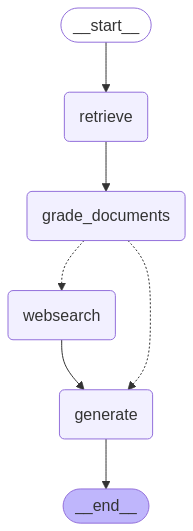
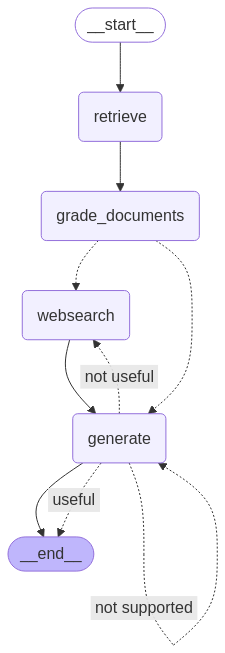
self RAG

diff --git a/graph/graph.py b/graph/graph.py
@@ -2,6 +2,8 @@ from dotenv import load_dotenv
 
 from langgraph.graph import END, StateGraph
 
+from graph.chains.answer_grader import answer_grader
+from graph.chains.hallucination_grader import hallucination_grader
 from graph.consts import RETRIEVE, GRADE_DOCUMENTS, GENERATE, WEBSEARCH
 from graph.nodes import generate, grade_documents, retrieve, web_search
 from graph.state import GraphState
@@ -21,6 +23,31 @@ def decide_to_generate(state):
         print("---DECISION: GENERATE---")
         return GENERATE
 
+
+def grade_generation_grounded_in_documents_and_question(state: GraphState) -> str:
+    print("---CHECK HALLUCINATIONS---")
+    question = state["question"]
+    documents = state["documents"]
+    generation = state["generation"]
+
+    score = hallucination_grader.invoke(
+        {"documents": documents, "generation": generation}
+    )
+
+    if hallucination_grade := score.binary_score:
+        print("---DECISION: GENERATION IS GROUNDED IN DOCUMENTS---")
+        print("---GRADE GENERATION vs QUESTION---")
+        score = answer_grader.invoke({"question": question, "generation": generation})
+        if answer_grade := score.binary_score:
+            print("---DECISION: GENERATION ADDRESSES QUESTION---")
+            return "useful"
+        else:
+            print("---DECISION: GENERATION DOES NOT ADDRESS QUESTION---")
+            return "not useful"
+    else:
+        print("---DECISION: GENERATION IS NOT GROUNDED IN DOCUMENTS, RE-TRY---")
+        return "not supported"
+
 workflow = StateGraph(GraphState)
 
 workflow.add_node(RETRIEVE, retrieve)
@@ -38,6 +65,17 @@ workflow.add_conditional_edges(
         GENERATE: GENERATE,
     },
 )
+
+workflow.add_conditional_edges(
+     GENERATE,
+     grade_generation_grounded_in_documents_and_question,
+     {
+         "not supported": GENERATE,
+         "useful": END,
+         "not useful": WEBSEARCH,
+     },
+ )
+
 workflow.add_edge(WEBSEARCH, GENERATE)
 workflow.add_edge(GENERATE, END)
 

diff --git a/graph/chains/hallucination_grader.py b/graph/chains/hallucination_grader.py
@@ -1,0 +1,40 @@
+import os
+
+from langchain_core.prompts import ChatPromptTemplate
+from langchain_core.pydantic_v1 import BaseModel, Field
+from langchain_core.runnables import RunnableSequence
+from langchain_openai import AzureChatOpenAI
+
+from dotenv import load_dotenv
+
+load_dotenv()
+
+llm = AzureChatOpenAI(
+        api_key=os.getenv("AZURE_OPENAI_API_KEY"),
+        azure_endpoint=os.getenv("AZURE_OPENAI_ENDPOINT"),
+        azure_deployment=os.getenv("AZURE_OPENAI_DEPLOYMENT_NAME"),
+        api_version=os.getenv("AZURE_OPENAI_API_VERSION"),
+        temperature=0,
+        verbose=True,
+)
+
+class GradeHallucinations(BaseModel):
+    """Binary score for hallucination present in generation answer."""
+
+    binary_score: bool = Field(
+        description="Answer is grounded in the facts, 'yes' or 'no'"
+    )
+
+structured_llm_grader = llm.with_structured_output(GradeHallucinations)
+
+system = """You are a grader assessing whether an LLM generation is grounded in / supported by a set of retrieved facts. \n 
+      Give a binary score 'yes' or 'no'. 'Yes' means that the answer is grounded in / supported by the set of facts."""
+
+hallucination_prompt = ChatPromptTemplate.from_messages(
+    [
+        ("system", system),
+        ("human", "Set of facts: \n\n {documents} \n\n LLM generation: {generation}"),
+    ]
+)
+
+hallucination_grader: RunnableSequence = hallucination_prompt | structured_llm_grader

diff --git a/graph/chains/answer_grader.py b/graph/chains/answer_grader.py
@@ -1,0 +1,39 @@
+import os
+
+from langchain_core.prompts import ChatPromptTemplate
+from langchain_core.pydantic_v1 import BaseModel, Field
+from langchain_core.runnables import RunnableSequence
+from langchain_openai import AzureChatOpenAI
+
+from dotenv import load_dotenv
+
+load_dotenv()
+
+
+class GradeAnswer(BaseModel):
+    binary_score: bool = Field(
+        description="Answer addresses the question, 'yes' or 'no'"
+    )
+
+
+llm = AzureChatOpenAI(
+        api_key=os.getenv("AZURE_OPENAI_API_KEY"),
+        azure_endpoint=os.getenv("AZURE_OPENAI_ENDPOINT"),
+        azure_deployment=os.getenv("AZURE_OPENAI_DEPLOYMENT_NAME"),
+        api_version=os.getenv("AZURE_OPENAI_API_VERSION"),
+        temperature=0,
+        verbose=True,
+)
+structured_llm_grader = llm.with_structured_output(GradeAnswer)
+
+system = """You are a grader assessing whether an answer addresses / resolves a question \n 
+      Give a binary score 'yes' or 'no'. Yes' means that the answer resolves the question."""
+
+answer_prompt = ChatPromptTemplate.from_messages(
+    [
+        ("system", system),
+        ("human", "User question: \n\n {question} \n\n LLM generation: {generation}"),
+    ]
+)
+
+answer_grader: RunnableSequence = answer_prompt | structured_llm_grader

diff --git a/graph/chains/tests/test_chains.py b/graph/chains/tests/test_chains.py
@@ -4,6 +4,8 @@ load_dotenv()
 
 from graph.chains.retrieval_grader import GradeDocuments, retrieval_grader
 from graph.chains.generation import generation_chain
+from graph.chains.hallucination_grader import hallucination_grader, GradeHallucinations
+
 from ingestion import retriever
 
 def test_retrival_grader_answer_yes() -> None:
@@ -34,3 +36,26 @@ def test_generation_chain() -> None:
     generation = generation_chain.invoke({"context": docs, "question": question})
 
     print(generation)
+
+
+def test_hallucination_grader_answer_yes() -> None:
+    question = "agent memory"
+    docs = retriever.invoke(question)
+
+    generation = generation_chain.invoke({"context": docs, "question": question})
+    res: GradeHallucinations = hallucination_grader.invoke(
+        {"documents": docs, "generation": generation}
+    )
+    assert res.binary_score
+
+def test_hallucination_grader_answer_no() -> None:
+    question = "agent memory"
+    docs = retriever.invoke(question)
+
+    res: GradeHallucinations = hallucination_grader.invoke(
+        {
+            "documents": docs,
+            "generation": "In order to make pizza we need to first start with the dough",
+        }
+    )
+    assert not res.binary_score
